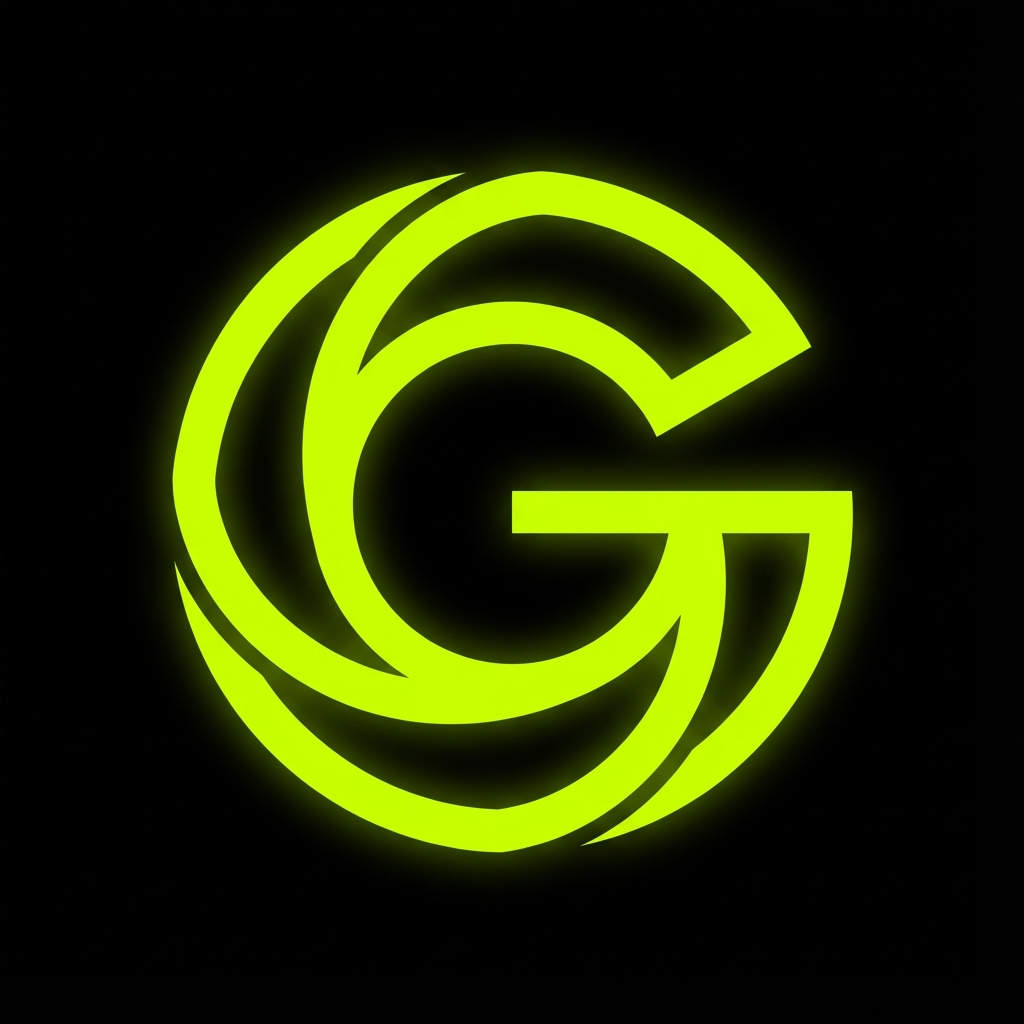
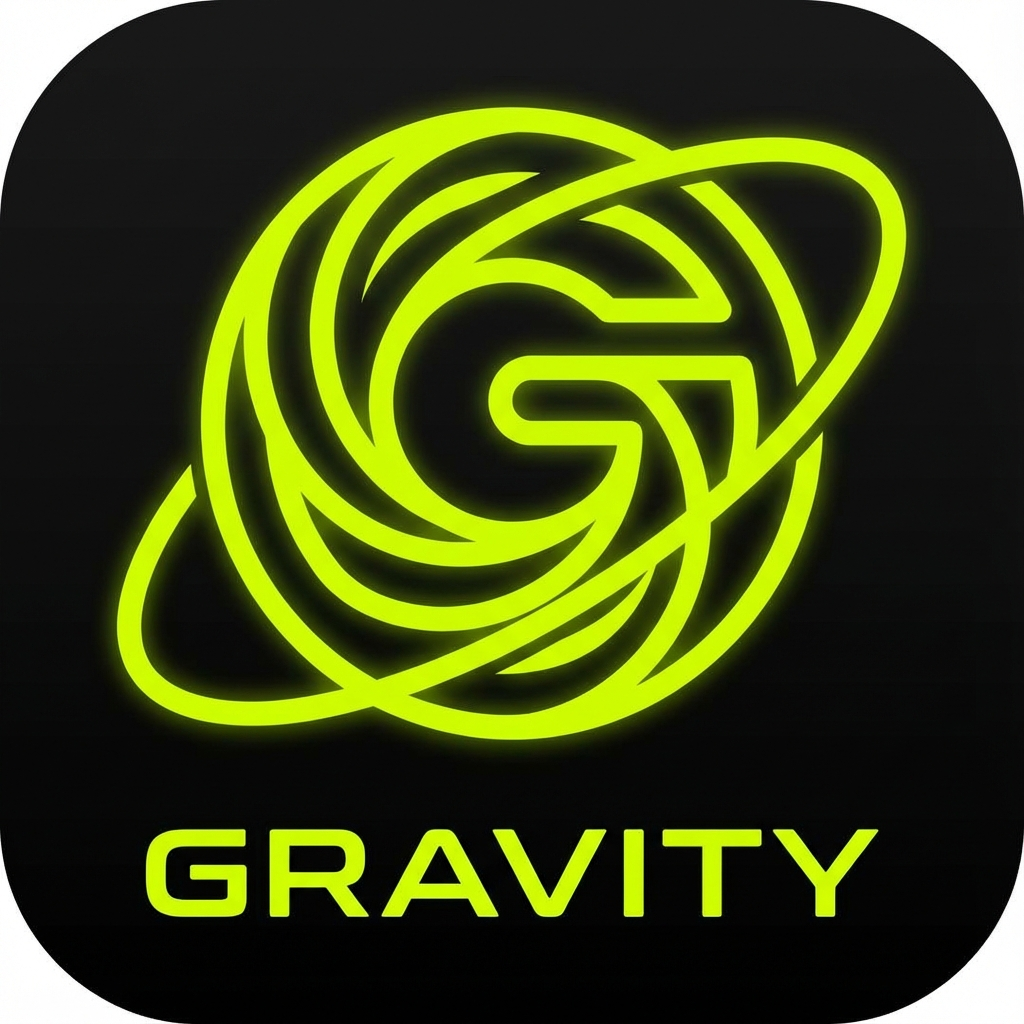
feat: implement strava integration and update branding

diff --git a/api/strava-webhook.js b/api/strava-webhook.js
@@ -1,0 +1,113 @@
+import { createClient } from '@supabase/supabase-js';
+
+const supabase = createClient(
+    process.env.VITE_SUPABASE_URL,
+    process.env.SUPABASE_SERVICE_ROLE_KEY
+);
+
+export default async function handler(req, res) {
+    // 1. STRAVA VALIDATION (GET)
+    if (req.method === 'GET') {
+        const mode = req.query['hub.mode'];
+        const token = req.query['hub.verify_token'];
+        const challenge = req.query['hub.challenge'];
+
+        if (mode && token) {
+            if (mode === 'subscribe' && token === process.env.STRAVA_VERIFY_TOKEN) {
+                console.log('WEBHOOK_VERIFIED');
+                return res.json({ "hub.challenge": challenge });
+            } else {
+                return res.status(403).send('Forbidden');
+            }
+        }
+        return res.status(400).send('Bad Request');
+    }
+
+    // 2. EVENT HANDLING (POST)
+    if (req.method === 'POST') {
+        const event = req.body;
+        console.log("Strava Event:", event);
+
+        // We only care about "activity" created
+        if (event.object_type === 'activity' && event.aspect_type === 'create') {
+            try {
+                const ownerId = event.owner_id; // Strava Athlete ID
+                const activityId = event.object_id;
+
+                // A. Find User in DB by Strava Athlete ID
+                const { data: interaction, error: userError } = await supabase
+                    .from('user_integrations')
+                    .select('user_id, access_token, refresh_token, expires_at')
+                    .eq('athlete_id', ownerId.toString())
+                    .single();
+
+                if (userError || !interaction) {
+                    console.log("No user found for this athlete:", ownerId);
+                    return res.status(200).send('User not found, ignoring');
+                }
+
+                // B. Check Token Expiry
+                let accessToken = interaction.access_token;
+                if (Date.now() / 1000 > interaction.expires_at) {
+                    console.log("Token expired, refreshing...");
+                    const refreshRes = await fetch('https://www.strava.com/oauth/token', {
+                        method: 'POST',
+                        headers: { 'Content-Type': 'application/json' },
+                        body: JSON.stringify({
+                            client_id: process.env.VITE_STRAVA_CLIENT_ID,
+                            client_secret: process.env.STRAVA_CLIENT_SECRET,
+                            grant_type: 'refresh_token',
+                            refresh_token: interaction.refresh_token
+                        })
+                    });
+                    const refreshData = await refreshRes.json();
+
+                    if (!refreshData.access_token) throw new Error("Failed to refresh token");
+
+                    // Update DB with new token
+                    await supabase
+                        .from('user_integrations')
+                        .update({
+                            access_token: refreshData.access_token,
+                            refresh_token: refreshData.refresh_token,
+                            expires_at: refreshData.expires_at
+                        })
+                        .eq('user_id', interaction.user_id);
+
+                    accessToken = refreshData.access_token;
+                }
+
+                // C. Fetch Activity Details from Strava
+                const activityRes = await fetch(`https://www.strava.com/api/v3/activities/${activityId}`, {
+                    headers: { Authorization: `Bearer ${accessToken}` }
+                });
+                const activity = await activityRes.json();
+
+                // D. Insert into Daily Logs
+                // Note: We need to handle potential dupes if they logged manually + strava
+                // But daily_logs has unique(user_id, date). Strava might clash if already logged.
+                // Strategy: Try insert, if fail (duplicate), maybe update? For now, just try insert.
+                const logDate = activity.start_date.split('T')[0];
+
+                const { error: insertError } = await supabase
+                    .from('daily_logs')
+                    .upsert({
+                        user_id: interaction.user_id,
+                        date: logDate,
+                        avg_heart_rate: Math.round(activity.average_heartrate || 0),
+                        duration_minutes: Math.round((activity.moving_time || 0) / 60),
+                        photo_proof_url: 'https://images.unsplash.com/photo-1541534741688-6078c6bfb5c5?q=80&w=2069' // Generic "Synced" Placeholder or download map
+                        // is_verified could be true since it comes from Strava?
+                        // is_verified: true
+                    }, { onConflict: 'user_id, date' });
+
+                if (insertError) console.error("Log Insert Error:", insertError);
+
+            } catch (err) {
+                console.error("Webhook processing error:", err);
+            }
+        }
+
+        return res.status(200).send('EVENT_RECEIVED');
+    }
+}

diff --git a/src/pages/Profile.jsx b/src/pages/Profile.jsx
@@ -2,7 +2,7 @@ import React, { useState, useEffect } from 'react';
 import Card from '../components/Card';
 import Button from '../components/Button';
 import Input from '../components/Input';
-import { Settings, Award, TrendingUp, User, Edit2, Save, X } from 'lucide-react';
+import { Settings, Award, TrendingUp, User, Edit2, Save, X, Activity } from 'lucide-react';
 import { dataService } from '../services/dataService';
 import { useAuth } from '../contexts/AuthContext';
 import { useNavigate } from 'react-router-dom';
@@ -14,7 +14,9 @@ const Profile = () => {
     const [loading, setLoading] = useState(true);
     const [editing, setEditing] = useState(false);
     const [profile, setProfile] = useState(null);
+
     const [stats, setStats] = useState({ streak: 0, total: 0 });
+    const [isStravaConnected, setIsStravaConnected] = useState(false);
 
     // Form State
     const [formData, setFormData] = useState({
@@ -31,7 +33,19 @@ const Profile = () => {
 
     const loadProfile = async () => {
         try {
+            // Check for Strava Code in URL (Coming back from Auth)
+            const params = new URLSearchParams(window.location.search);
+            const authCode = params.get('code');
+            if (authCode) {
+                // Remove code from URL to prevent loop/re-use
+                window.history.replaceState({}, document.title, window.location.pathname);
+                await dataService.linkStrava(authCode);
+                alert("Strava Connected Successfully!");
+            }
+
             const data = await dataService.getProfile();
+            const connected = await dataService.getIntegrationStatus();
+            setIsStravaConnected(connected);
             // Fetch real stats
             const userStats = await dataService.getUserStats();
 
@@ -160,6 +174,36 @@ const Profile = () => {
                 )}
             </Card>
 
+            {/* Integrations Section */}
+            <Card style={{ marginBottom: '1.5rem' }}>
+                <div style={{ display: 'flex', alignItems: 'center', justifyContent: 'space-between' }}>
+                    <div style={{ display: 'flex', alignItems: 'center', gap: '0.75rem' }}>
+                        <Activity className="text-orange-500" size={24} style={{ color: '#fc4c02' }} />
+                        <div>
+                            <h3 style={{ fontSize: '1.1rem', margin: 0 }}>Strava Integration</h3>
+                            <p style={{ fontSize: '0.8rem', color: 'var(--color-text-muted)', margin: 0 }}>
+                                Sync workouts from Garmin, Apple Watch, etc.
+                            </p>
+                        </div>
+                    </div>
+                    {isStravaConnected ? (
+                        <span style={{ color: 'var(--color-success)', fontWeight: 'bold', fontSize: '0.9rem' }}>Connected</span>
+                    ) : (
+                        <Button
+                            onClick={() => {
+                                const clientId = import.meta.env.VITE_STRAVA_CLIENT_ID;
+                                const redirectUri = window.location.origin + '/profile'; // Redirect back here
+                                const scope = "activity:read_all"; // Need to read activities
+                                window.location.href = `https://www.strava.com/oauth/authorize?client_id=${clientId}&response_type=code&redirect_uri=${redirectUri}&approval_prompt=force&scope=${scope}`;
+                            }}
+                            style={{ background: '#fc4c02', color: 'white', border: 'none' }}
+                        >
+                            Connect
+                        </Button>
+                    )}
+                </div>
+            </Card>
+
             {/* Stats Cards - NOW USING REAL DATA */}
             <div style={{ display: 'grid', gridTemplateColumns: '1fr 1fr', gap: '1rem', marginBottom: '1.5rem' }}>
                 <Card>
@@ -194,7 +238,7 @@ const Profile = () => {
             display: block;
         }
       `}</style>
-        </div>
+        </div >
     );
 };
 

diff --git a/api/strava-auth.js b/api/strava-auth.js
@@ -1,0 +1,60 @@
+import { createClient } from '@supabase/supabase-js';
+
+// Init Supabase with Service Role to write to 'user_integrations' (which has RLS)
+const supabase = createClient(
+    process.env.VITE_SUPABASE_URL,
+    process.env.SUPABASE_SERVICE_ROLE_KEY
+);
+
+export default async function handler(req, res) {
+    if (req.method !== 'POST') {
+        return res.status(405).json({ error: 'Method not allowed' });
+    }
+
+    const { code, user_id } = req.body;
+
+    if (!code || !user_id) {
+        return res.status(400).json({ error: 'Missing code or user_id' });
+    }
+
+    try {
+        // 1. Exchange Code for Token from Strava
+        const tokenResponse = await fetch('https://www.strava.com/oauth/token', {
+            method: 'POST',
+            headers: { 'Content-Type': 'application/json' },
+            body: JSON.stringify({
+                client_id: process.env.VITE_STRAVA_CLIENT_ID,
+                client_secret: process.env.STRAVA_CLIENT_SECRET,
+                code: code,
+                grant_type: 'authorization_code'
+            })
+        });
+
+        const data = await tokenResponse.json();
+
+        if (data.errors) {
+            throw new Error(JSON.stringify(data.errors));
+        }
+
+        // 2. Save to Supabase
+        const { error } = await supabase
+            .from('user_integrations')
+            .upsert({
+                user_id: user_id,
+                provider: 'strava',
+                access_token: data.access_token,
+                refresh_token: data.refresh_token,
+                expires_at: data.expires_at,
+                athlete_id: data.athlete?.id?.toString(),
+                scope: 'activity:read_all' // Assuming we asked for this scope
+            });
+
+        if (error) throw error;
+
+        return res.status(200).json({ success: true, athlete: data.athlete });
+
+    } catch (error) {
+        console.error("Strava Auth Error:", error);
+        return res.status(500).json({ error: error.message });
+    }
+}

diff --git a/src/services/dataService.js b/src/services/dataService.js
@@ -257,7 +257,7 @@ export const dataService = {
         const { data: challenge, error: findError } = await supabase
             .from('challenges')
             .select('id')
-            .eq('join_code', code)
+            .ilike('join_code', code.trim())
             .single();
 
         if (findError || !challenge) throw new Error("Invalid Challenge Code");
@@ -419,5 +419,42 @@ export const dataService = {
         } catch (e) {
             console.error("Notification trigger failed (non-blocking):", e);
         }
+    },
+
+    // --- Phase 9: Integrations (Strava) ---
+
+    async getIntegrationStatus() {
+        const { data: { user } } = await supabase.auth.getUser();
+        if (!user) return null;
+
+        // Check if row exists in user_integrations
+        const { data, error } = await supabase
+            .from('user_integrations')
+            .select('provider, created_at')
+            .eq('user_id', user.id)
+            .eq('provider', 'strava')
+            .single();
+
+        if (error && error.code !== 'PGRST116') console.error("Integration check failed:", error); // PGRST116 is "Row not found"
+        return !!data;
+    },
+
+    async linkStrava(authCode) {
+        const { data: { user } } = await supabase.auth.getUser();
+        if (!user) throw new Error('Not authenticated');
+
+        // Call our Vercel Backend Function to exchange token securey
+        const response = await fetch('/api/strava-auth', {
+            method: 'POST',
+            headers: { 'Content-Type': 'application/json' },
+            body: JSON.stringify({
+                code: authCode,
+                user_id: user.id
+            })
+        });
+
+        const result = await response.json();
+        if (!response.ok) throw new Error(result.error || 'Strava linking failed');
+        return result;
     }
 };

diff --git a/src/pages/Admin.jsx b/src/pages/Admin.jsx
@@ -63,8 +63,14 @@ const Admin = () => {
 
     const handleCreateChallenge = async (e) => {
         e.preventDefault();
+        const sanitizedForm = {
+            ...challengeForm,
+            join_code: challengeForm.join_code.trim().toUpperCase(),
+            name: challengeForm.name.trim()
+        };
+
         try {
-            await dataService.createChallenge(challengeForm);
+            await dataService.createChallenge(sanitizedForm);
             alert("🏆 Challenge Created Successfully!");
             // Reset form
             setChallengeForm({ ...challengeForm, join_code: '', name: '' });

diff --git a/src/pages/JoinChallenge.jsx b/src/pages/JoinChallenge.jsx
@@ -20,8 +20,8 @@ const JoinChallenge = ({ onJoinSuccess }) => {
             alert("Welcome to the team! 🚀");
             onJoinSuccess();
         } catch (err) {
-            console.error(err);
-            setError('Invalid code or connection error.');
+            console.error("Join Challenge Error:", err);
+            setError(err.message || 'Invalid code or connection error.');
         } finally {
             setLoading(false);
         }

diff --git a/index.html b/index.html
@@ -2,9 +2,9 @@
 <html lang="en">
   <head>
     <meta charset="UTF-8" />
-    <link rel="icon" type="image/svg+xml" href="/vite.svg" />
+    <link rel="icon" type="image/png" href="/logo.png" />
     <meta name="viewport" content="width=device-width, initial-scale=1.0" />
-    <title>gravity-fmk</title>
+    <title>Gravity</title>
   </head>
   <body>
     <div id="root"></div>
